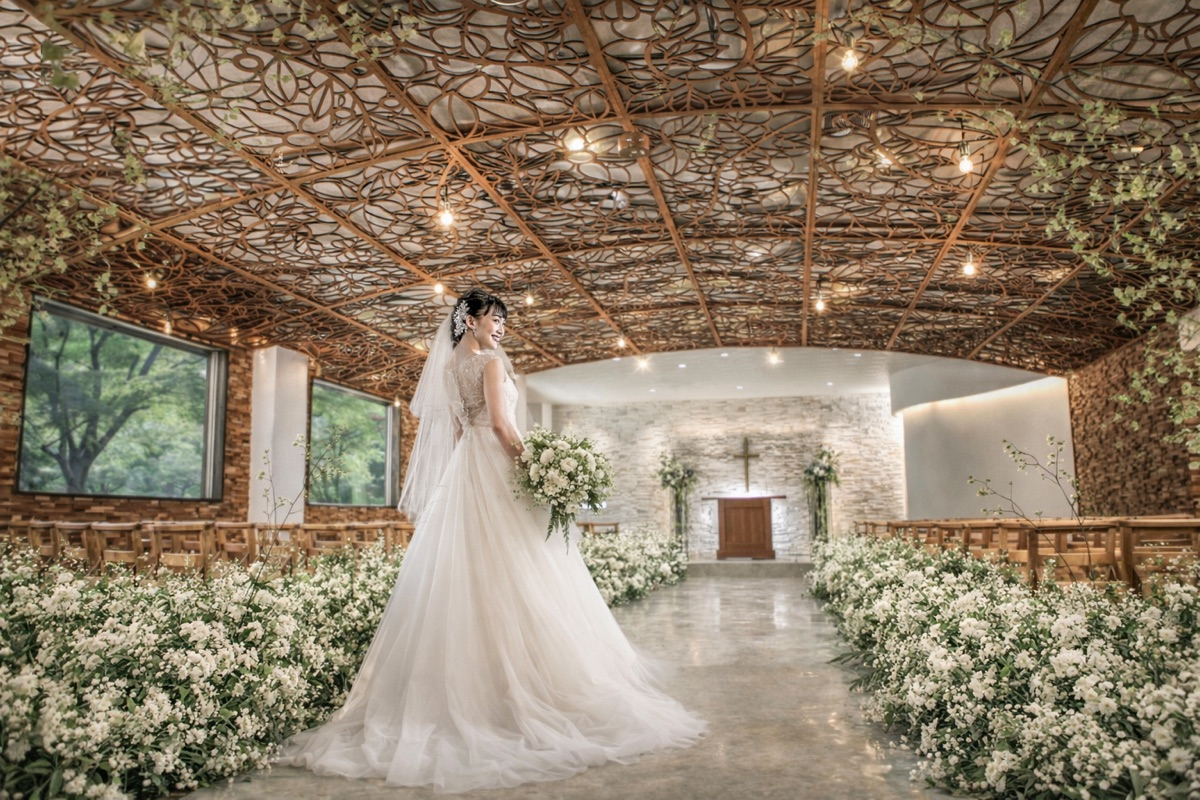
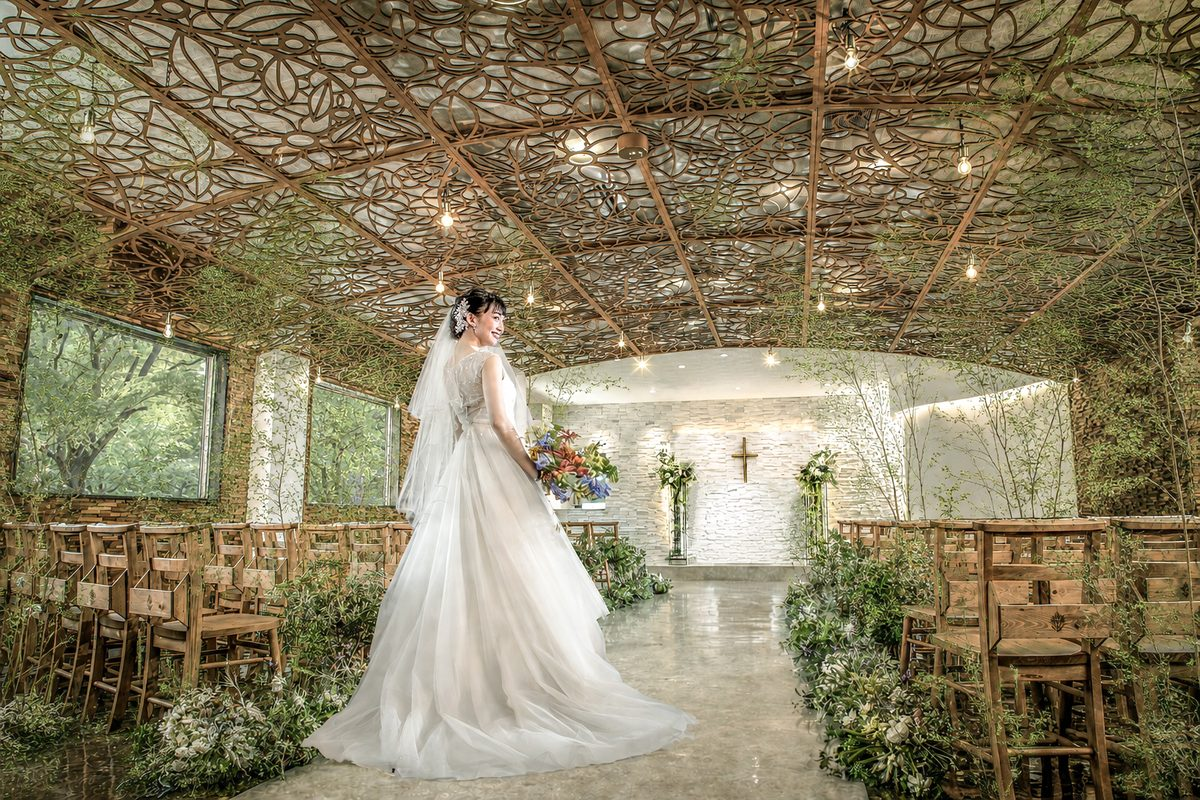
lold: 会場写真の差し替えと来館希望日の第三希望追加 (#155)
写真（顧客支給の最新カットに差し替え）:
- チャペル / 貸切パーティー会場を差し替え
- 一軒家ウエディングとアクセスは同じ外観カットになったので venue-exterior.jpg に統合
  （旧 facility-house.jpg / access.jpg は削除）。3:2 を 16:9 で受けるため上寄せにして
  建物の頭と館銘板を残し、手前の舗装を落とす
- OGPを差し替え後のチャペル写真から 1200x630 で作り直し。SNSのキャッシュを切るため
  ファイル名も ogp-2026-09-11.jpg に変更（規約どおり）

フォーム:
- ご来館希望日に第三希望（必須）を追加
- errorMessage を第一/第二/第三に追従
- 0028 で通知メールの formFields にも visit_date_3 を追加。入れないと式場宛メールに
  "visit_date_3: 2027-03-14" と英語キーのまま出る（0018 と同じ不具合クラス）

diff --git a/apps/lp/clients/lold/config.ts b/apps/lp/clients/lold/config.ts
@@ -21,7 +21,7 @@ const config: PatternCConfig = {
     // ファイルは別に持つ。共用すると写真を差し替えてもURLが変わらず、
     // SNS側のキャッシュが古い画像を出し続ける（実際に発生）。
     // 差し替えるときは必ずファイル名も変えること。
-    ogpImage: `${ASSET}/ogp-2026-09.jpg`,
+    ogpImage: `${ASSET}/ogp-2026-09-11.jpg`,
   },
   ink: "#3B3730",
   accent: "#B99653",
@@ -222,7 +222,14 @@ const config: PatternCConfig = {
         tag: "03",
         title: "一軒家ウエディング",
         body: "1日1組貸切で、ふたりらしい演出も自由自在",
-        image: { placeholder: "一軒家ウエディング", src: `${ASSET}/facility-house.jpg` },
+        // アクセスと同一カット。同じ建物なので別カットにすると別物に見える。
+        // 3:2 の素材を 16:9 で受けるので、上寄せで建物の頭と館銘板を残し、
+        // 手前の舗装を落とす。
+        image: {
+          placeholder: "一軒家ウエディング（会場外観）",
+          src: `${ASSET}/venue-exterior.jpg`,
+          position: "center top",
+        },
       },
       {
         tag: "04",
@@ -275,10 +282,10 @@ const config: PatternCConfig = {
     mapEmbed: { query: "ザ・フォレストオブロルド" },
     map: {
       placeholder: "会場外観",
-      src: `${ASSET}/access.jpg`,
-      // 支給素材は3:2。16:9 で受けると縦が切れるので、建物の頭と新郎新婦の足元の
-      // どちらを残すかの調整。やや上寄せで屋根まで入れ、手前の舗装を落とす。
-      position: "center 38%",
+      src: `${ASSET}/venue-exterior.jpg`,
+      // 3:2 の素材を 16:9 で受けるので上下が切れる。上寄せで建物の頭と
+      // 館銘板（LOLD THE VENUE）を残し、手前の舗装を落とす。
+      position: "center top",
     },
   },
 
@@ -298,6 +305,7 @@ const config: PatternCConfig = {
       },
       { type: "date", name: "visit_date_1", label: "ご来館希望日（第一希望）", required: true },
       { type: "date", name: "visit_date_2", label: "ご来館希望日（第二希望）", required: true },
+      { type: "date", name: "visit_date_3", label: "ご来館希望日（第三希望）", required: true },
       {
         // 挙式の招待人数ではなく、フェア当日に来館する人数。
         // おふたりだけか、ご両親が同席するかで案内の準備が変わる。
@@ -337,7 +345,7 @@ const config: PatternCConfig = {
     disclaimer:
       "ご入力いただいた内容はご予約対応のみに利用します。\nしつこいご案内はいたしません。",
     errorMessage:
-      "お名前・電話番号・メールアドレス・ご来館希望日（第一/第二）・ご人数・ご試食の有無は必須項目です。",
+      "お名前・電話番号・メールアドレス・ご来館希望日（第一/第二/第三）・ご人数・ご試食の有無は必須項目です。",
   },
 
   sticky: {
